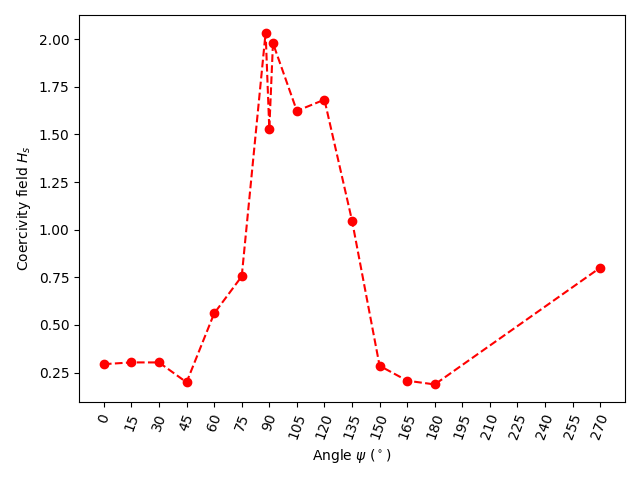
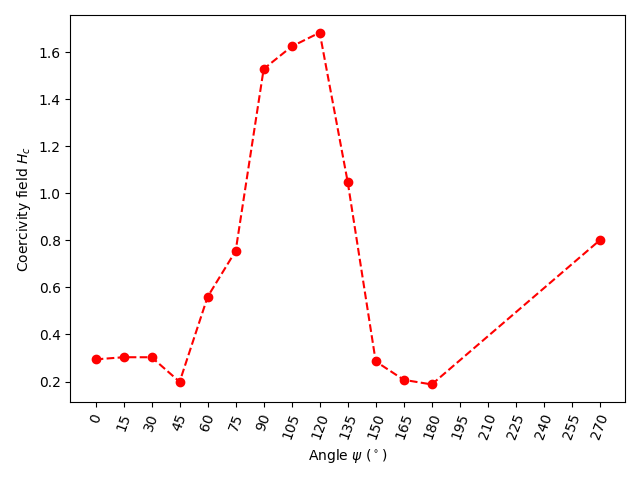
find anisotropy constant

diff --git a/processing.py b/processing.py
@@ -7,6 +7,7 @@ import matplotlib.pyplot as plt
 import math as m
 from scipy.ndimage import gaussian_filter
 from scipy.signal import savgol_filter
+from scipy import constants
 from saturation_gradient import file_reader
 from saturation_gradient import grad_avg
 from saturation_gradient import sat_gradient
@@ -17,7 +18,7 @@ from saturation_gradient import find_roots
 
 def main():
     # measured degrees:
-    degs = [0, 15, 30, 45, 60, 75, 88, 90, 92,\
+    degs = [0, 15, 30, 45, 60, 75, 90,\
             105, 120, 135, 150, 165, 180, 270]
     ############################################################################
     #creating pandas dataframes to store data:
@@ -55,9 +56,8 @@ def main():
         grads = sat_gradient(intensity[col].values,
                              applied[col].values, threshold, width)
         grads = np.multiply(applied[col].values, grads)
-        #print(col, grads)
         intensity_grad_adj[col] = intensity[col].values
-        if deg not in [88, 90, 92, 105, 120, 135, 270]:
+        if deg not in [88, 90, 105, 120, 135, 270]:
             intensity_grad_adj[col] = intensity_grad_adj[col].values - grads
             intensity_grad_adj[col] = (1 - gauss_amt) * intensity_grad_adj[col].values\
                 + gauss_amt * gaussian_filter(intensity_grad_adj[col].values, 2)
@@ -88,14 +88,12 @@ def main():
         intercepts = find_roots(applied[col].values, intensity_grad_adj[col].values)
         if len(intercepts) == 4:
             intercepts = np.array([intercepts[1], intercepts[3]])
-        print(deg, intercepts)
         coercive_field.append(np.mean(np.abs(intercepts)))
-    print(remanence)
     linspace_degs = np.linspace(0,270, num=19)
     # plot remanence:
     plt.plot(degs, remanence, 'bo--')
     plt.xlabel('Angle $\psi$ ($^\circ$)')
-    plt.ylabel('Remanence')
+    plt.ylabel('Remanence ($M/M_s$)')
     plt.xticks(linspace_degs, rotation=70)
     plt.tight_layout()
     plt.savefig('remanence.png')
@@ -104,12 +102,40 @@ def main():
     # plot coercive field
     plt.plot(degs, coercive_field, 'ro--')
     plt.xlabel('Angle $\psi$ ($^\circ$)')
-    plt.ylabel('Coercivity field $H_s$')
+    plt.ylabel('Coercivity field $H_c$')
     plt.xticks(linspace_degs, rotation=70)
     plt.tight_layout()
     plt.savefig('coercive_field.png')
     plt.close()
     
-    intensity_grad_adj.to_csv('intensity_grad_adj.csv',index=False)
+    for deg in [90]:
+        col = f'{deg}deg'
+        intensity_grad_adj.to_csv('intensity_grad_adj.csv',index=False)
+        n = len(intensity_grad_adj[col].values)
+        y = intensity_grad_adj[col].values[0:round(n/2)]
+        x = applied[col].values[0:round(n/2)]
+        idx = np.where(np.logical_and(x>=-0.6, x<=0.8))
+        x = x[idx] * 795.77471545947673925 # conversion mT -> A / m
+        M_sat = 1.2 * 10**(6) # (units A / m)
+        y = y[idx] * M_sat # conversion m = M/M_sat -> M = m*M_sat (units A / m)
+        lin_fit = np.polyfit(x, y, 1)
+        mu_0 = constants.value('vacuum mag. permeability')
+        K_mu = mu_0 * M_sat * lin_fit[0]
+
+        y = intensity_grad_adj[col].values[0:round(n/2)]
+        x = applied[col].values[0:round(n/2)]
+        x = x[idx]
+        y = y[idx]
+        plt.plot(x, y, 'r*')
+        lin_fit = np.polyfit(x, y, 1)
+        print(f'The anisotropy constant is: {K_mu}')
+        plt.plot(applied[col], intensity_grad_adj[col])
+        plt.plot(np.linspace(-2, 3), (np.linspace(-2, 3) * lin_fit[0]) + lin_fit[1], '--', 
+                color='orange')
+        plt.ylim([-1.05, 1.05])
+        plt.xlabel('Applied field $H$ (mT)')
+        plt.ylabel('Intensity $I$ ($M/M_s$)')
+        plt.savefig(f'{col}/fit.png')
+        plt.close()
 if __name__ == "__main__":
 	main()
